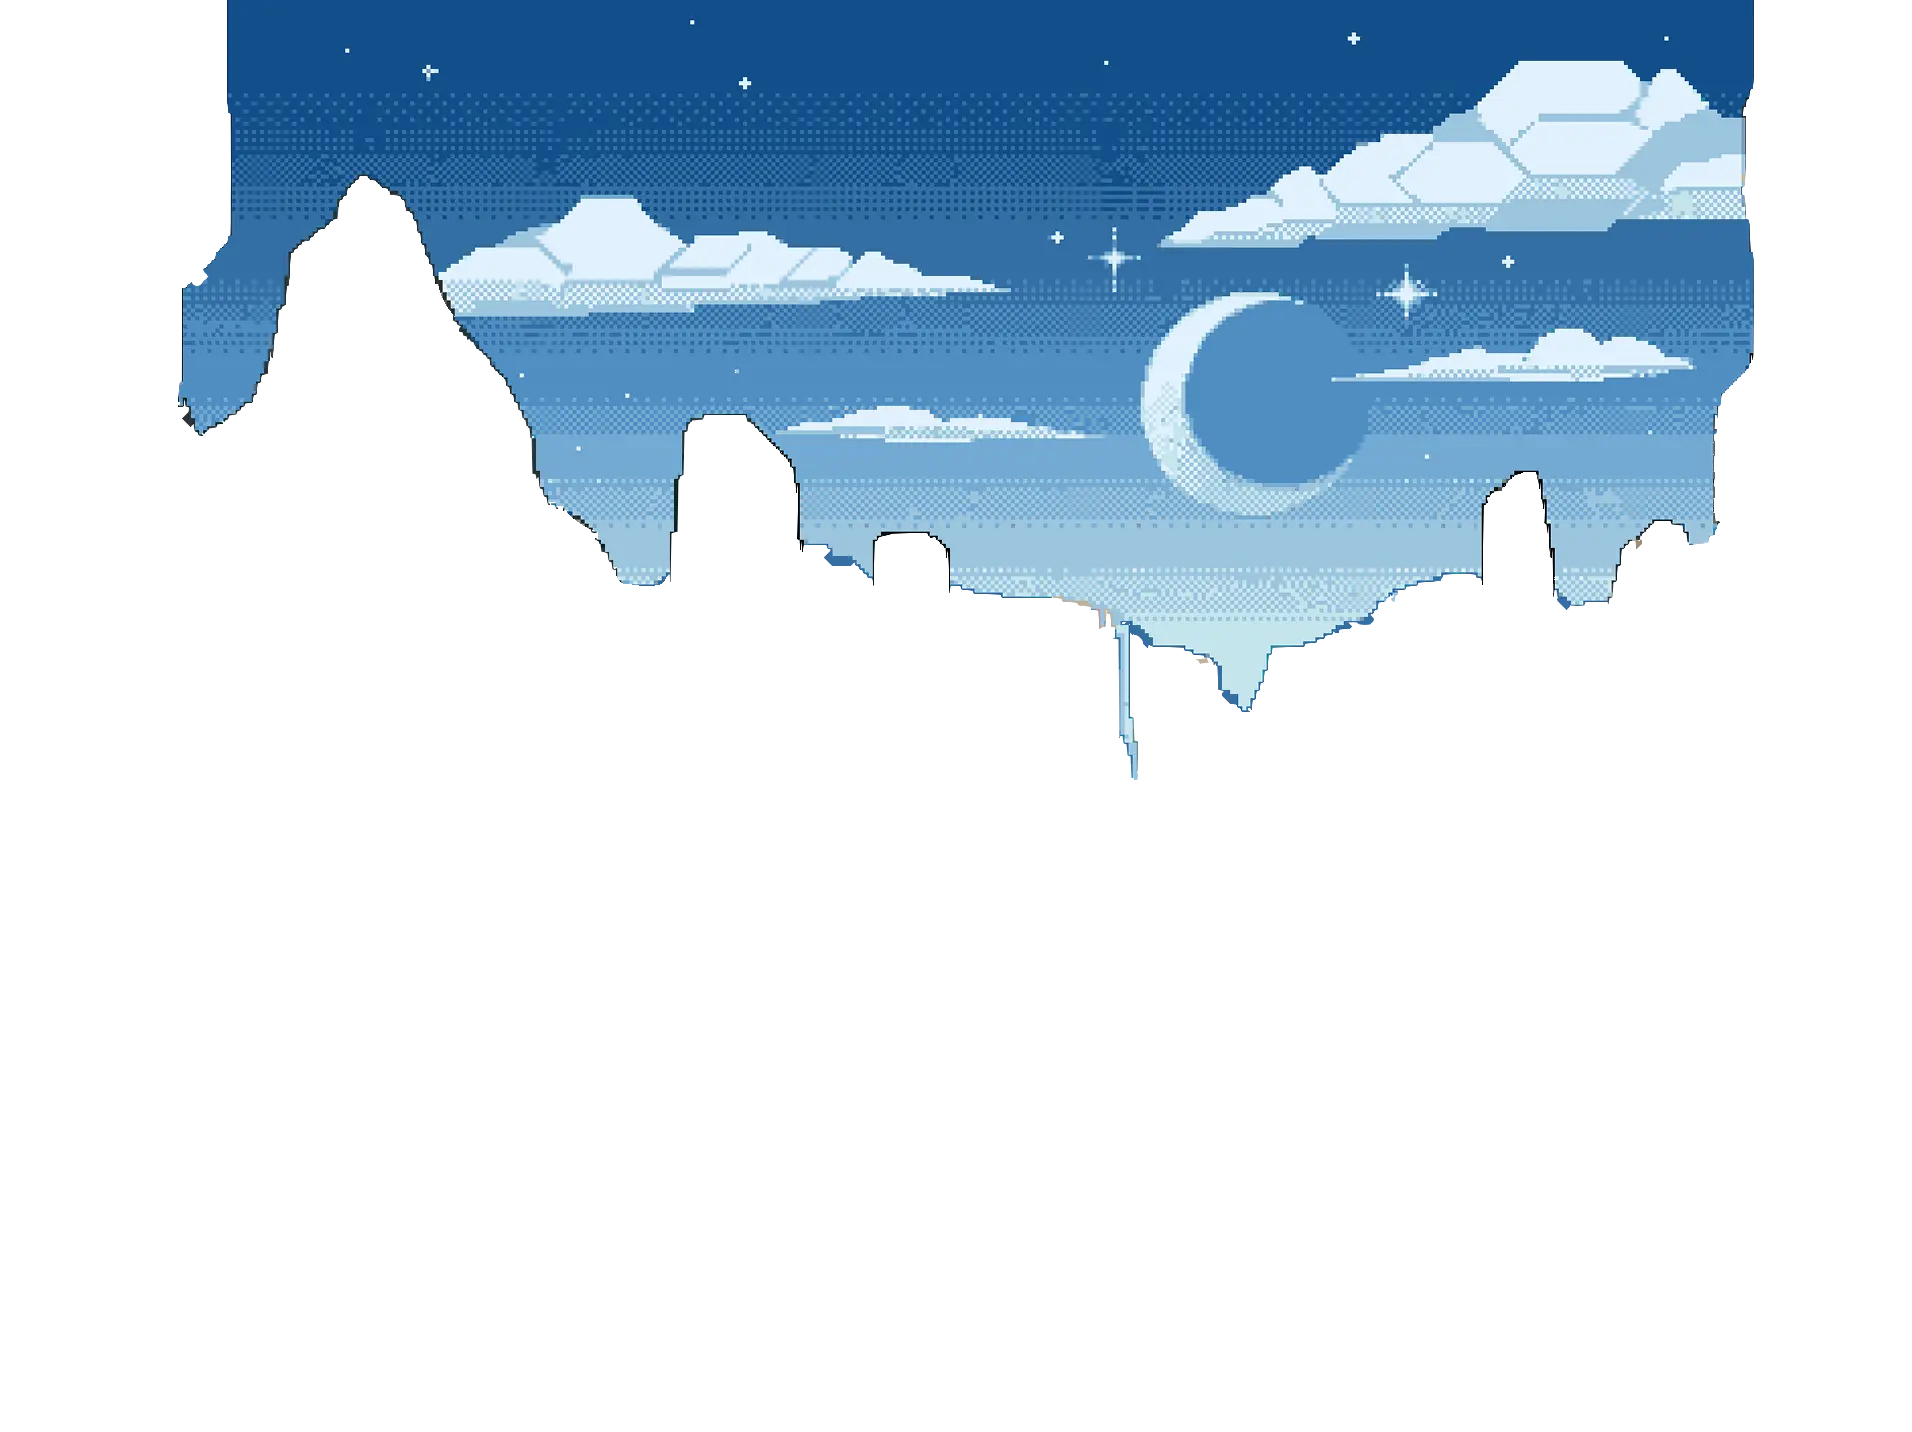
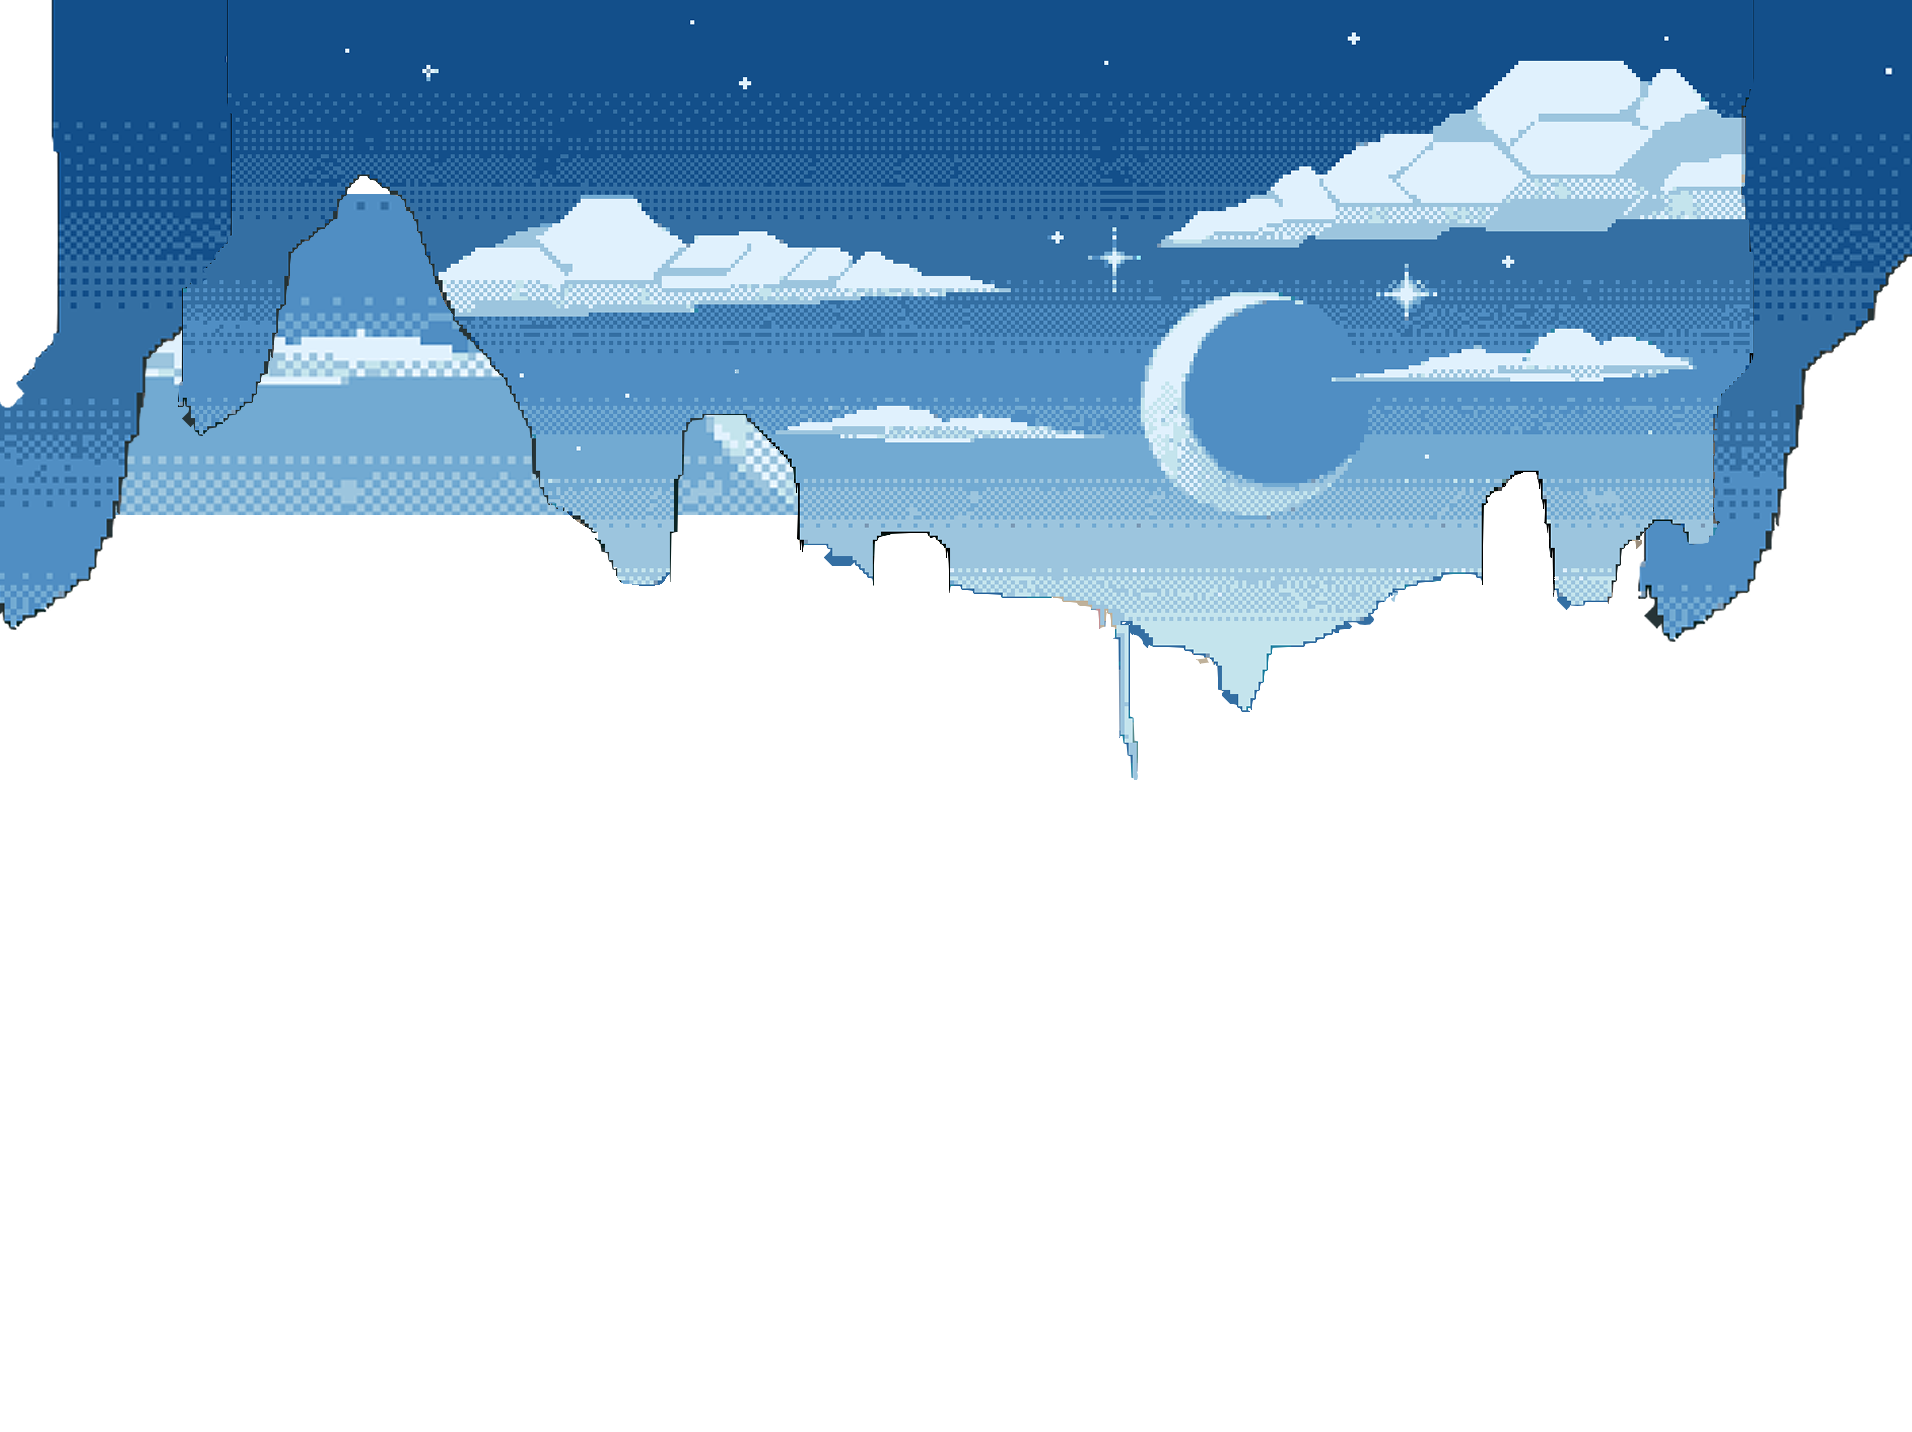
fix: some parallax and webp

Changed region(s): [[0.0, 0.0, 0.3086, 0.4302], [0.8332, 0.0, 1.0, 0.4609], [0.3394, 0.2765, 0.432, 0.3687]]

diff --git a/src/app/page.tsx b/src/app/page.tsx
@@ -29,7 +29,7 @@ export default function Home() {
     if (heroLowerRef.current) {
       gsap.fromTo(
         heroLowerRef.current,
-        { yPercent: 20, scale: 1.1   },
+        { yPercent: 40, scale: 1.1   },
         {
           yPercent: -30,
           scale: 1.15,
@@ -41,7 +41,7 @@ export default function Home() {
     if (heroMiddleRef.current) {
       gsap.fromTo(
         heroMiddleRef.current,
-        { yPercent: 10, scale: 1.05 },
+        { yPercent: 20, scale: 1.05 },
         {
           yPercent: -20,
           scale: 1.11,

diff --git a/src/app/projects/page.tsx b/src/app/projects/page.tsx
@@ -35,8 +35,8 @@ export default function Projects() {
     if (projectsUpperRef.current) {
       gsap.fromTo(
         projectsUpperRef.current,
-        { yPercent: 20, scale: 1.12 },
-        { yPercent: -5, scale: 1.12, scrollTrigger: parallaxConfig }
+        { yPercent: 0, scale: 1.15 },
+        { yPercent: -0, scale: 1.15, scrollTrigger: parallaxConfig }
       );
     }
 

diff --git a/src/app/about/page.tsx b/src/app/about/page.tsx
@@ -43,7 +43,7 @@ export default function About() {
       gsap.fromTo(
         aboutUpperRef.current,
         { yPercent: 10, scale: 1.05},
-        { yPercent: -15, scale: 1.05, scrollTrigger: parallaxConfig }
+        { yPercent: -10, scale: 1.05, scrollTrigger: parallaxConfig }
       );
     }
 
